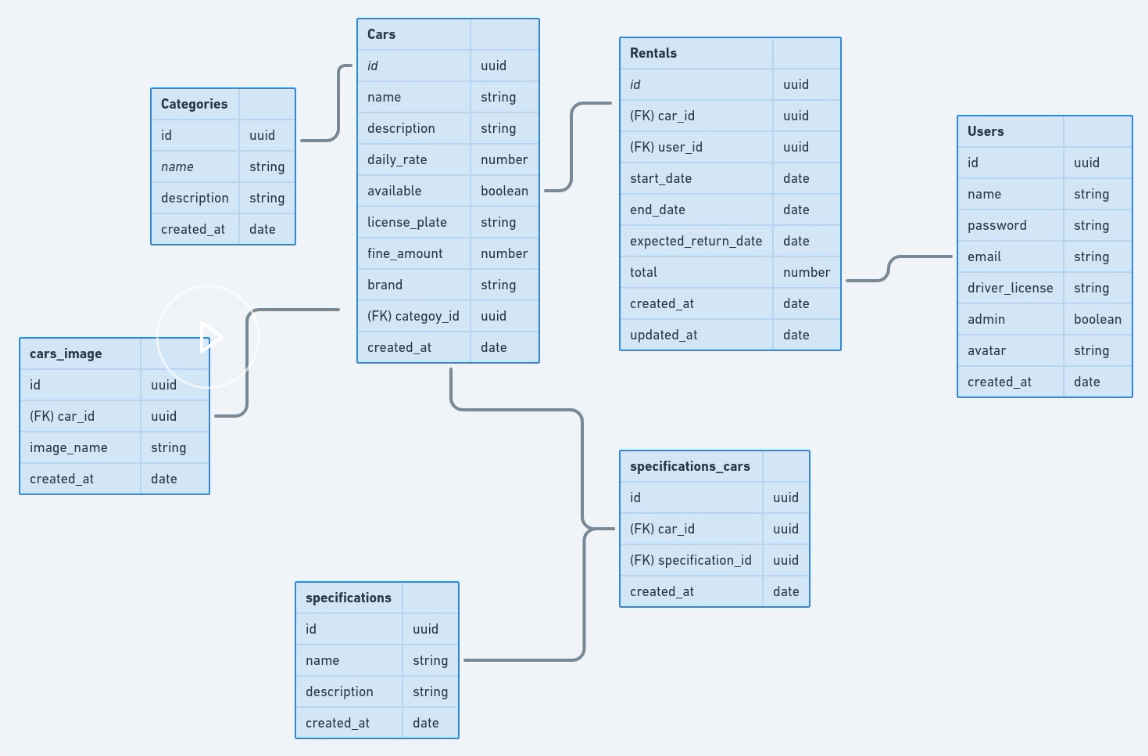
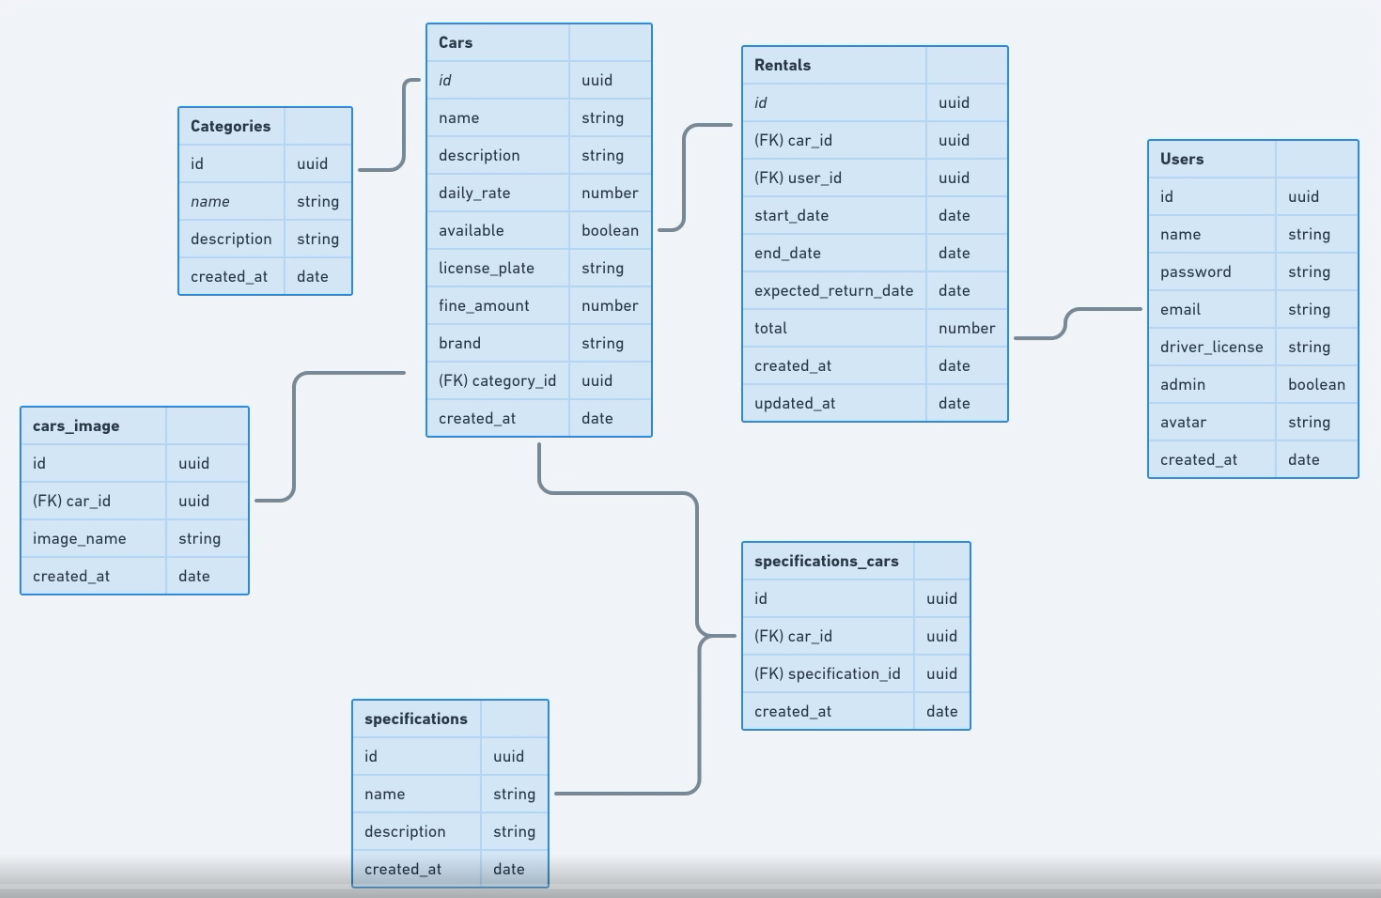
Criando migrations do carro

Changed region(s): [[0.0, 0.0, 1.0, 1.0], [0.7622, 0.1521, 1.0, 0.5476]]

diff --git a/src/shared/infra/typeorm/migrations/1639446169761-CreateCars.ts b/src/shared/infra/typeorm/migrations/1639446169761-CreateCars.ts
@@ -1,0 +1,71 @@
+import { MigrationInterface, QueryRunner, Table } from 'typeorm';
+
+export class CreateCars1639446169761 implements MigrationInterface {
+  public async up(queryRunner: QueryRunner): Promise<void> {
+    await queryRunner.createTable(
+      new Table({
+        name: 'cars',
+        columns: [
+          {
+            name: 'id',
+            type: 'uuid',
+            isPrimary: true,
+          },
+          {
+            name: 'name',
+            type: 'varchar',
+          },
+          {
+            name: 'description',
+            type: 'varchar',
+          },
+          {
+            name: 'daily_rate',
+            type: 'numeric',
+          },
+          {
+            name: 'available',
+            type: 'boolean',
+            default: true,
+          },
+          {
+            name: 'license_plate',
+            type: 'varchar',
+          },
+          {
+            name: 'fine_amount',
+            type: 'varchar',
+          },
+          {
+            name: 'brand',
+            type: 'varchar',
+          },
+          {
+            name: 'category_id',
+            type: 'uuid',
+            isNullable: true,
+          },
+          {
+            name: 'created_at',
+            type: 'timestamp',
+            default: 'now()',
+          },
+        ],
+        foreignKeys: [
+          {
+            name: 'FKCategoryCar',
+            referencedTableName: 'categories',
+            referencedColumnNames: ['id'],
+            columnNames: ['category_id'],
+            onDelete: 'SET NULL',
+            onUpdate: 'SET NULL',
+          },
+        ],
+      }),
+    );
+  }
+
+  public async down(queryRunner: QueryRunner): Promise<void> {
+    await queryRunner.dropTable('cars');
+  }
+}
